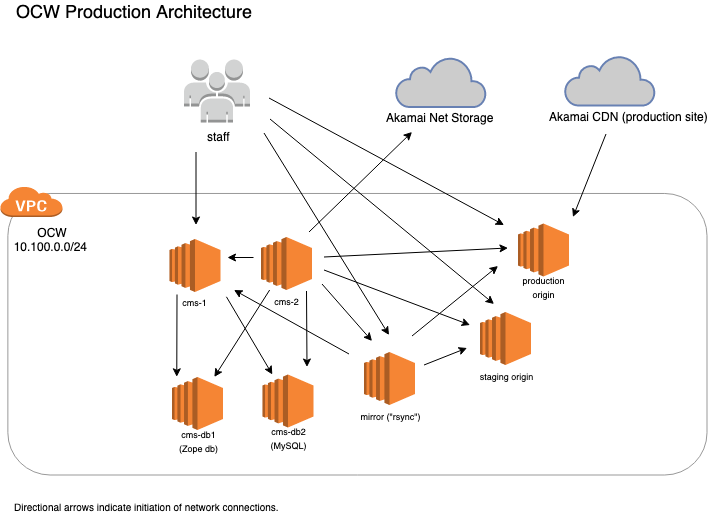
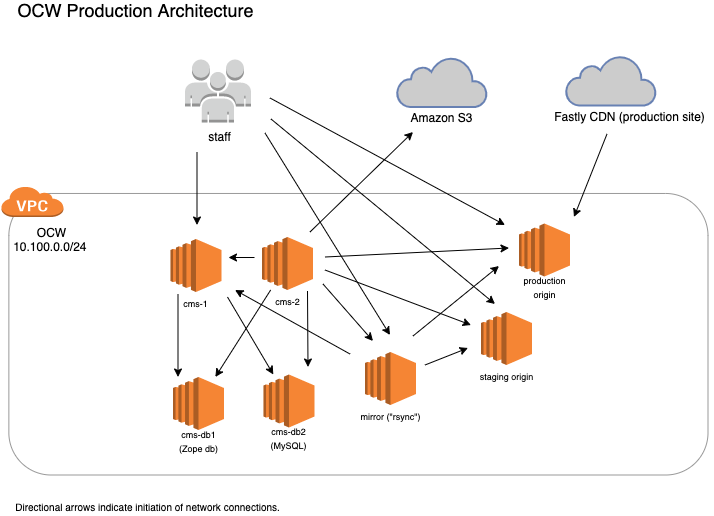
Add fastly documentation (#1230)
Add Fastly CDN documentation and change Akamai references.

diff --git a/docs/project_documents/OCW/fastly_cdn.md b/docs/project_documents/OCW/fastly_cdn.md
@@ -1,0 +1,85 @@
+# OpenCourseWare
+
+[Table of Contents](index.md)
+
+## Fastly Content Delivery Network
+
+**Production**: `ocw.mit.edu` or `ocw.global.ssl.fastly.net`. Also `www.ocw.mit.edu`, which just redirects to ocw.mit.edu.
+
+**QA** (misnamed "Staging" in the "Services" menu): `ocw-qa.global.ssl.fastly.net`
+
+
+### HTTP/2
+
+
+The CDNs support HTTP/2, as a basic feature that has no configuration or billing
+settings.
+
+
+### Proxying the S3 Bucket for Zip Files and Large Files
+
+
+There are S3 buckets that store Zip files of courses and various other files that are too large for the Plone content management system. In the past, these were stored in Akamai Netstorage volumes. The production bucket is ocw-website-storage and the QA bucket is ocw-website-storage-qa.  Each bucket has a folder named `/zipfiles` that holds the Zip files, and one named `/largefiles` that holds the large files. On both production and QA, the CDN reverse-proxies the path `/ans7870` to the `/largefiles` folder, and proxies `/ans15436` to the `/zipfiles` folder. These "ans" folder names maintain consistency with the paths that have been used for years before the cutover to Fastly.
+
+The reverse-proxying is configured in the Fastly control panel in the "Origins" section, and in the "S3 bucket proxying" VCL snippet in the "VCL Snippets" section.
+
+Fastly's access to the S3 bucket is governed by the `ocw-fastly-website-storage-bucket-readonly` policy, which is attached to the `ocw-fastly-website-storage-bucket-readonly` IAM user. The S3 buckets are not publicly accessible, and are not web-enabled.
+
+Access for content maintainers is governed by the `read-write-delete-ocw-website-storage-bucket` IAM policy, which is attached to the `jmartis` IAM user and the `ocw-engine-instance-role` role, as of May, 2020.
+
+
+### Managing Redirects
+
+
+The `recvRedirects` VCL snippet in each CDN configuration is responsible for redirects. There are some hostname-related redirects in the top part of that code, but most redirects are handled in the condition near the end where it looks up paths and their targets the `redirects` Dictionary.
+
+The `redirects` dictionary appears in the "Data" section of the Fastly control panel, under "Dictionaries." The `key` field of each record is the path to redirect. This must not end in a trailing "/" character. The `value` field is a "|"-delimited string that provides the type of redirect by HTTP status code, whether to keep or discard the querystring, and the target of the redirect. The substring `{{AK_HOSTHEADER}}` will be replaced by the hostname given in the `Host` header in the request.
+
+
+### TLS
+
+TLS Certificate files are kept in Keybase in `team/mitodl.devops/ssl/`.
+
+Only the production site has a custom TLS certificate. The certificate is issued by IS&T by the usual means of making an email support request to `mitcert@mit.edu`.
+
+The TLS certificate covers `ocw.mit.edu` and `www.ocw.mit.edu`. The latter is hosted only for the purpose of redirecting to `ocw.mit.edu`.
+
+
+### Differences Between QA and Production CDNs
+
+
+#### Image Optimizer
+
+The "Image Optimizer" feature is turned *on* in production, but *off* in QA. Turning it on requires getting a price quote from Fastly.
+
+#### TLS
+
+There are no TLS Domains associated with QA, where we use the free
+`ocw-qa.global.ssl.fastly.net` domain.
+
+#### Redirects
+
+QA does not have all of the redirects that Production has, but it does have the same VCL and Dictionary for configuring redirects as necessary, if we need to test them.
+
+The QA site serves up a robots.txt that forbids all robot access. This is circumvented in production by issuing a redirect to another file, robots-akamai.txt, which allows access. This redirect does not happen on the production *origin* server, causing robots to get the version that denies access. (This behavior is the same as it was with Akamai.) The combination of these behaviors guards against search engines indexing the QA site as well as the origin servers (for example, ocw-origin.odl.mit.edu.). The production redirect is managed in the "redirects" Dictionary in the production Service Configuration.
+
+Both the production and QA CDNs redirect any plain HTTP request to HTTPS. This is governed by the "Force TLS and enable HSTS" setting in Configure > Settings in the control panel. In addition, HSTS is employed (via the `Strict-Transport-Security` HTTP header) to instruct browsers *never* to make plain HTTP requests in the future (even if the user puts "http://" in the browser address bar) and upgrade to HTTPS, after the user has visited the site once over TLS and has received the Strict-Transport-Security header.
+
+
+#### Logging and Alerting
+
+The QA and Production CDNs send log files to S3.
+
+Production bucket: `ocw-fastly-access-logs-production`
+
+QA bucket: `ocw-fastly-access-logs-qa`
+
+The logs are in JSONL format, where each line is a JSON object.
+
+The QA CDN has a shorter logfile rotation period than production. Production is currently set (as of 2020-05-14) to rotate hourly, and QA is set to rotate every five minutes. Logs can take some time to be uploaded to S3 after they are rotated. For example, a log rotated at midnight will bear a filename marking it with "00:00:00" but it may not be be available in S3 until 00:15 or even later.
+
+No logfiles are generated for periods lacking requests.
+
+Access to the logging bucket is granted to the `ocw-fastly-logger` IAM user, which has two attached policies, `ocw-fastly-log-bucket-rw-qa` and `ocw-fastly-log-bucket-rw-production`.  The `ocw-fastly-logger` user has two Access Keys, one for production and one for QA.
+
+Fastly has a web API that we can use to gather analytics and to generate alerts. We have not implemented any API-based statistics or alerts, as of May, 2020; but we have a Trello card for doing so eventually.

diff --git a/docs/project_documents/OCW/engines_mirror.md b/docs/project_documents/OCW/engines_mirror.md
@@ -22,23 +22,23 @@ The mirror publishing process is relatively simple, compared to the other ones f
 1. Sets up a working directory and some symbolic links
 2. Copies files that have been placed in `/data2/prod` by the [production publishing engine](engines_production.md) into the working directory.
 3. Copies image files from `/data2/prod` into the working directory.
-4. Copies ZIP files that the publishing processes put in `/ans15436`, and which have been uploaded to Akamai Net Storage, into the working directory.
+4. Copies ZIP files that the publishing processes put in `/ans15436`, and which have been uploaded to Amazon S3, into the working directory.
 5. Copies other static page assets, like stylesheets and javascript files, into the working directory from `/data2/prod`.
 6. Saves a file containing the timestamp when it started executing, and which was used to generate the name of its working directory. This timestamp will be used by `update_snapshot.sh` to determine which working directory to use.
 
 `update_snapshot.sh` does the following:
 
 1. Downloads some files from the Visualizing Cultures website (hosted outside of `ocw.mit.edu` via a redirect on the live site) into the working directory created by `create_new_snapshot.sh`.
-2. Recursively downloads into the working directory a select list of directories within Akamai Net Storage. The list of files is determined by searching for URL patterns throughout every HTML file stored within the working directory, using a program named `find_links.py`
+2. Recursively downloads into the working directory a select list of directories within Amazon S3 (that appear in the `ans*` paths on the site). The list of files is determined by searching for URL patterns throughout every HTML file stored within the working directory, using a program named `find_links.py`
 3. Downloads all media files from Internet Archive referenced throughout the site, to the working directory, searching for URL patterns in every HTML file stored within the working directory, using `find_links.py`.
 4. Downloads media files and background images to the working directory, by querying for the files on the CMS engine server, or by examining [the CSV file of Youtube video data](cron_jobs.md) and then running `Download_media_background_images.py`. This Python script walks through the list of files and generates a shell script (`media_and_background_images.sh`) that it then executes to download the files from Youtube, Internet Archive, or TechTV, depending on the file.
 5. Finds links to Java applets (`.class` and `.jar` files) within the HTML pages of the site, by running `find_applet_embeds.py`, which generates a file that is fed into `wget` to download them into the working directory. It also copies Java files from `/data2/mitstorage` into the working directory.
-6. Downloads more files from Akamai net storage by searching through the site's HTML for links, this time from `http://mfile.akamai.com/7870/`. These appear to be mostly Real Media files, based on the step below for altering links to Real Media resources. 
+6. ~~Downloads more files from Akamai net storage by searching through the site's HTML for links, this time from `http://mfile.akamai.com/7870/`. These appear to be mostly Real Media files, based on the step below for altering links to Real Media resources~~. *This step is scheduled to be removed. It no longer produces a list of files.*
 7. Rewrites URL patterns throughout the site's HTML by running `rewrite_links.py`, which performs pattern replacements. For example, the pattern `http://www.archive.org/download/` will be changed to `/OcwExport/InternetArchive/`, and the pattern `http://ocw.mit.edu/` will be changed to `/`.
 8. Rewrites embedded media links throughout the site's HTML, similarly to the step above. It runs `rewrite_inline_embeds.py`, which generates a shell script (`fix_inline_embeds.sh`) which it then executes. Most of the links altered are to Youtube and Internet Archive embedded media.
 9. Alters the link to the donation page on the site's home page, `index.htm`.
-10. Copies Real Media files from `/data2/mitstorage` into the working directory. More HTML files are grepped through, and it appears the media files being sought are files that were downloaded above, and now are just being moved into another directory.
+10. ~~Copies Real Media files from `/data2/mitstorage` into the working directory. More HTML files are grepped through, and it appears the media files being sought are files that were downloaded above, and now are just being moved into another directory~~. *This step is scheduled to be removed. It does not appear that there are any more of these files.*
 11. Creates some symlinks, removes unused media files, and removes temporary files.
 12. Rsyncs the contents of the working directory to `/data2/rsync`.
 
-It appears that `/data2/rsync` is the source from which an OCW employee builds the removable media drive.
+The `/data2/rsync` directory is the source from which an OCW employee builds the removable media drive.

diff --git a/docs/project_documents/OCW/architecture_overview.md b/docs/project_documents/OCW/architecture_overview.md
@@ -8,7 +8,7 @@ This section provides a brief overview of the different classes of servers that 
 
 First, some terminology:
 
-The OCW site is a static HTML website that is hosted on **Akamai**'s Content Delivery Network (CDN). The CDN pulls resources from our production origin server when they are updated. A content management system (**CMS**), which runs **Plone** on top of the **Zope** application framework, manages the site content (pages and resources) and is what staff members interact with to maintain and publish content. There is additionally a server (the "**mirror**" or "rsync" server) that hosts a special flattened version of the site that is designed for being `rsync`ed onto a USB drive for physical distribution, and an Akamai object-storage ("**netstorage**" or file storage) service that receives files from the CMS during the publishing process. There are many Python and shell scripts, called **Engine** scripts, which run on one of the CMS servers and copy files to the staging and production **origin servers**, and to the mirror and netstorage destinations. All of the "servers," except for the Akamai ones, are **Amazon EC2 instances**.
+The OCW site is a static HTML website that is hosted on **Fastly**'s Content Delivery Network (CDN). The CDN pulls resources from our production origin server when they are updated. A content management system (**CMS**), which runs **Plone** on top of the **Zope** application framework, manages the site content (pages and resources) and is what staff members interact with to maintain and publish content. There is additionally a server (the "**mirror**" or "rsync" server) that hosts a special flattened version of the site that is designed for being synchronized to a USB drive for physical distribution, and an Amazon S3 bucket that receives files from the CMS during the publishing process. There are many Python and shell scripts, called **Engine** scripts, which run on one of the CMS servers and copy files to the staging and production **origin servers**, and to the mirror and netstorage destinations. All of the servers, except for the Fastly and Amazon S3 ones, are **Amazon EC2 instances**.
 
 There is a **QA environment** and a **Production environment**, composed of mainly the same classes of servers.  For example, QA has a "CMS 1" and "CMS 2" server, and a Zope database server; and Production also has the same equivalent servers.
 

diff --git a/docs/project_documents/OCW/engines_production.md b/docs/project_documents/OCW/engines_production.md
@@ -37,7 +37,7 @@ The following lengthy outline is just a **summary** of the events that occur whe
                     1. delete files from mirror server
                     2. copy files to mirror server, either from CMS or from the staging server, depending on whether the resource is a course or department
                     3. copy JSON file to mirror server
-                4. publish ZIP file to Akamai netstorage, if this Task is for a course or supplemental resource (`tasks.py:445`)
+                4. publish ZIP file to S3 bucket, if this Task is for a course or supplemental resource (`tasks.py:445`)
                 5. publish to DSpace holding area, if this Task is for a course or supplemental resource (`tasks.py:448`)
                 6. publish RSS feeds to production origin if this Task is not for a course
 4. Go through the dependent module tasks added above and do `tasks.Task.execute()` (above) for each of them.

diff --git a/docs/project_documents/OCW/howto_fullsiterepub.md b/docs/project_documents/OCW/howto_fullsiterepub.md
@@ -69,7 +69,7 @@ Perform the steps of the "For each of the lines" part in "The Staging Publish," 
 
 The production run takes less time than the staging one because it's mostly just copying files that it had to work harder to generate in the staging step.
 
-### Step 3: Clear the Akamai cache
+### Step 3: Clear the Fastly cache
 
-Someone who has access to Akamai's support personnel contacts them and asks for the CDN's cache to be cleared, at which point the republished content is live.
+Someone who has administrator access to Fastly can clear the cache when the production publish is finished. Fastly's recommendation is to use the "mark as stale" option whenever possible.
 

diff --git a/docs/project_documents/OCW/index.md b/docs/project_documents/OCW/index.md
@@ -7,6 +7,7 @@
 1. [Code Deployment](deployment.md)
 1. [Publishing Engines](engines.md)
 1. [Cron Jobs](cron_jobs.md)
+1. [Fastly CDN](fastly_cdn.md)
 1. [HOWTO](howto.md)
 1. [Troubleshooting](troubleshooting.md)
 1. [Not Covered In This Documentation](not_covered.md)
